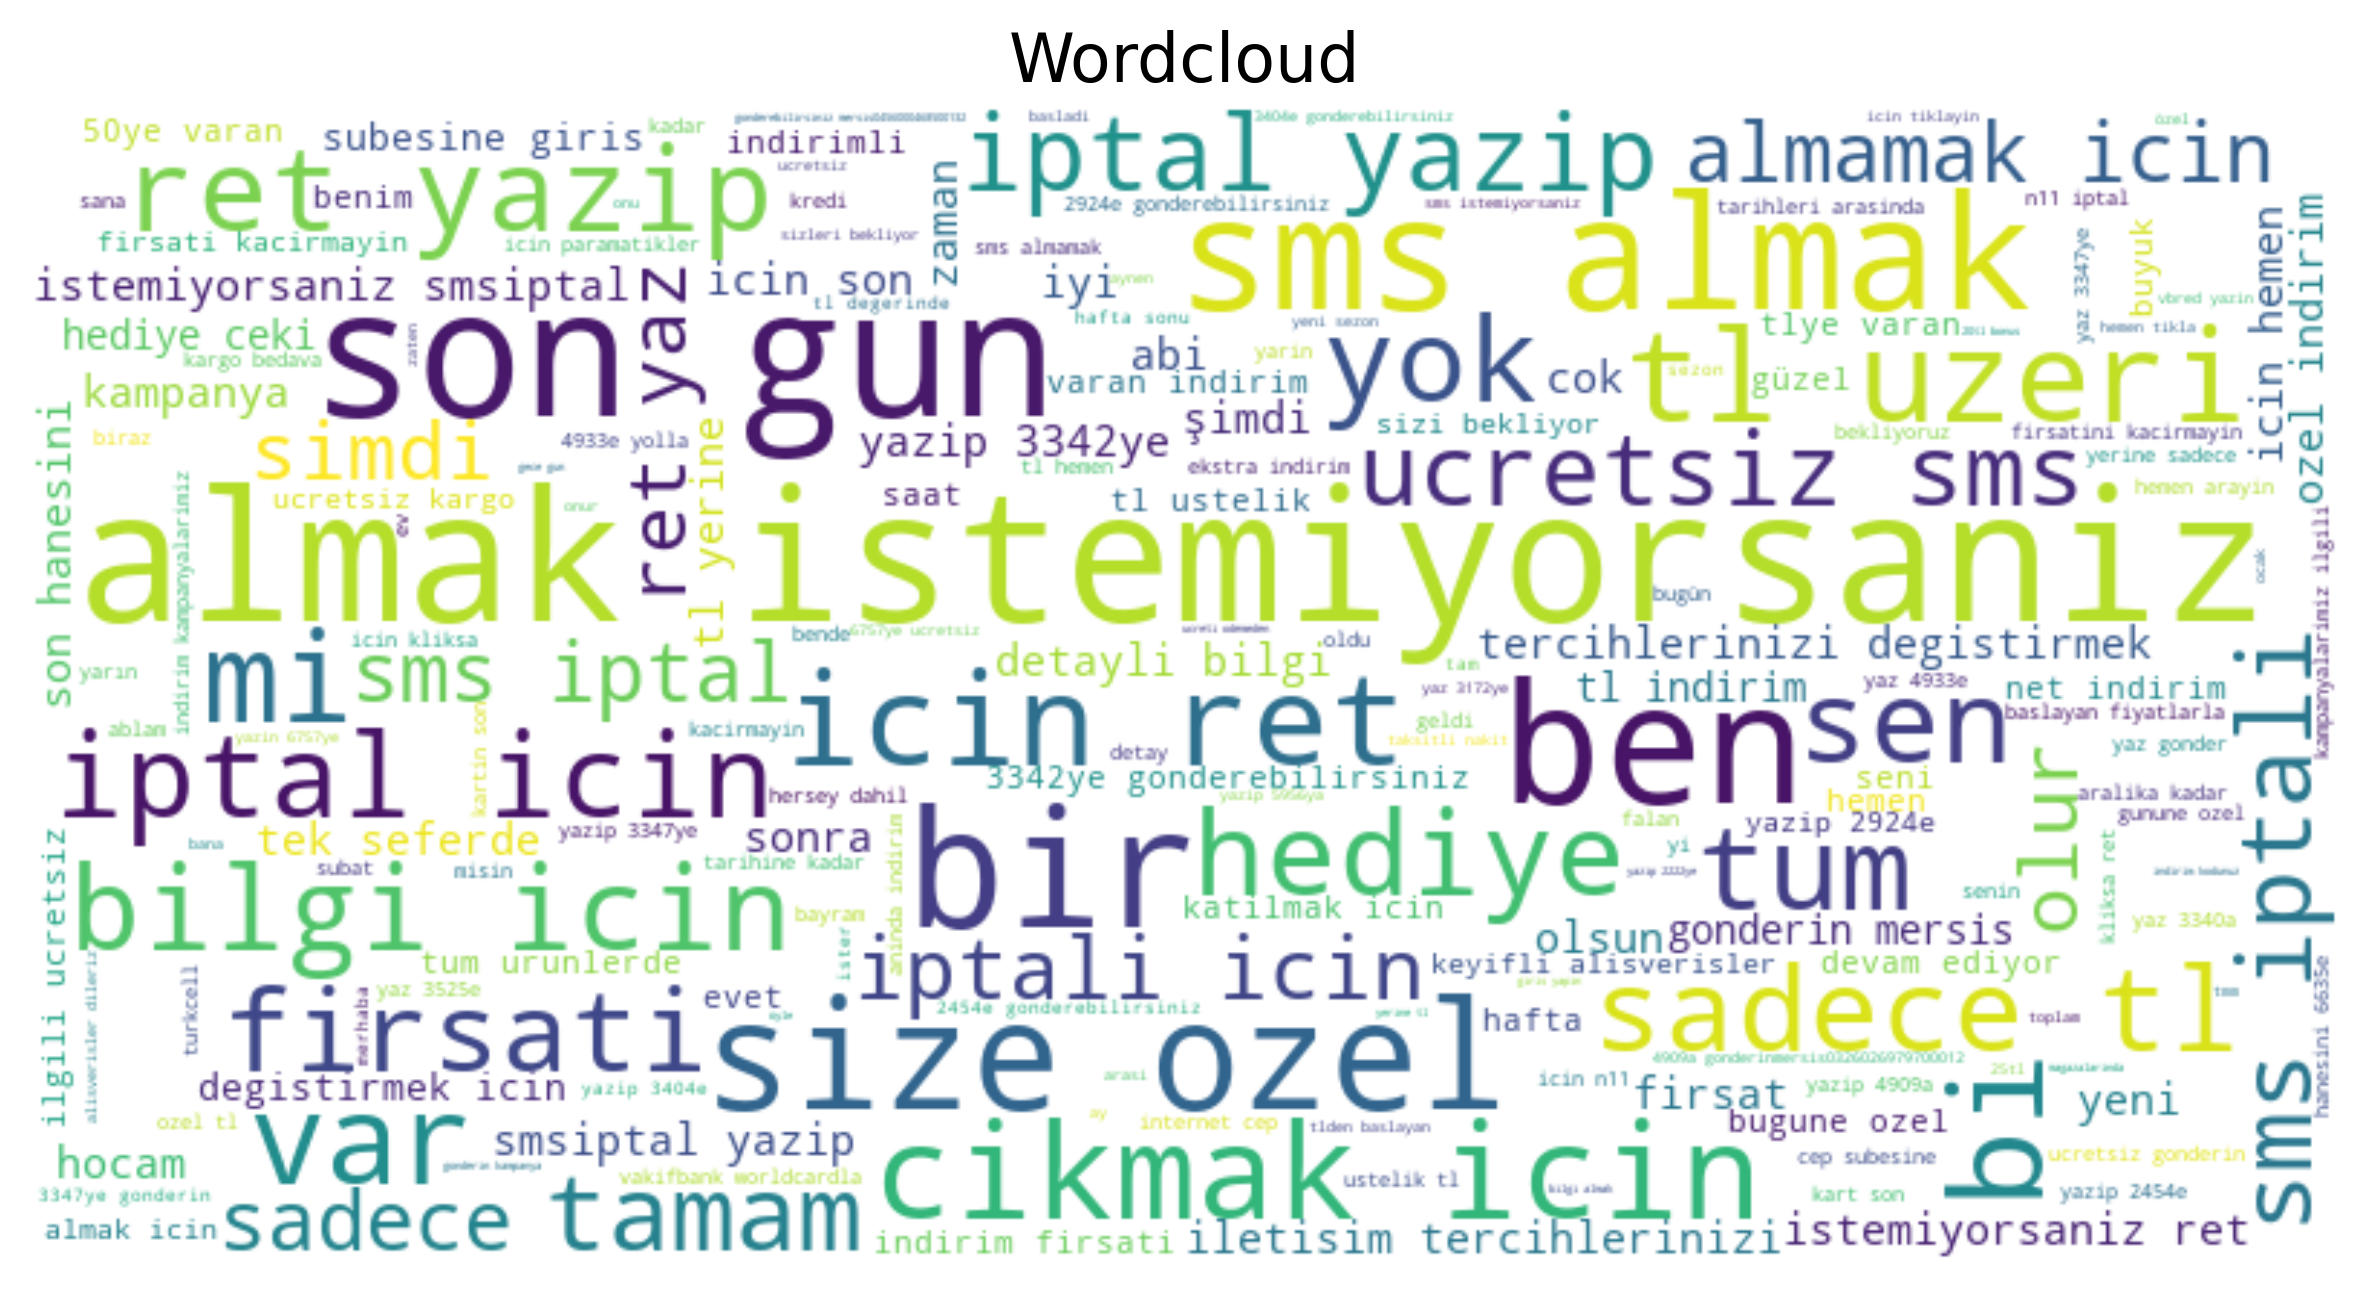
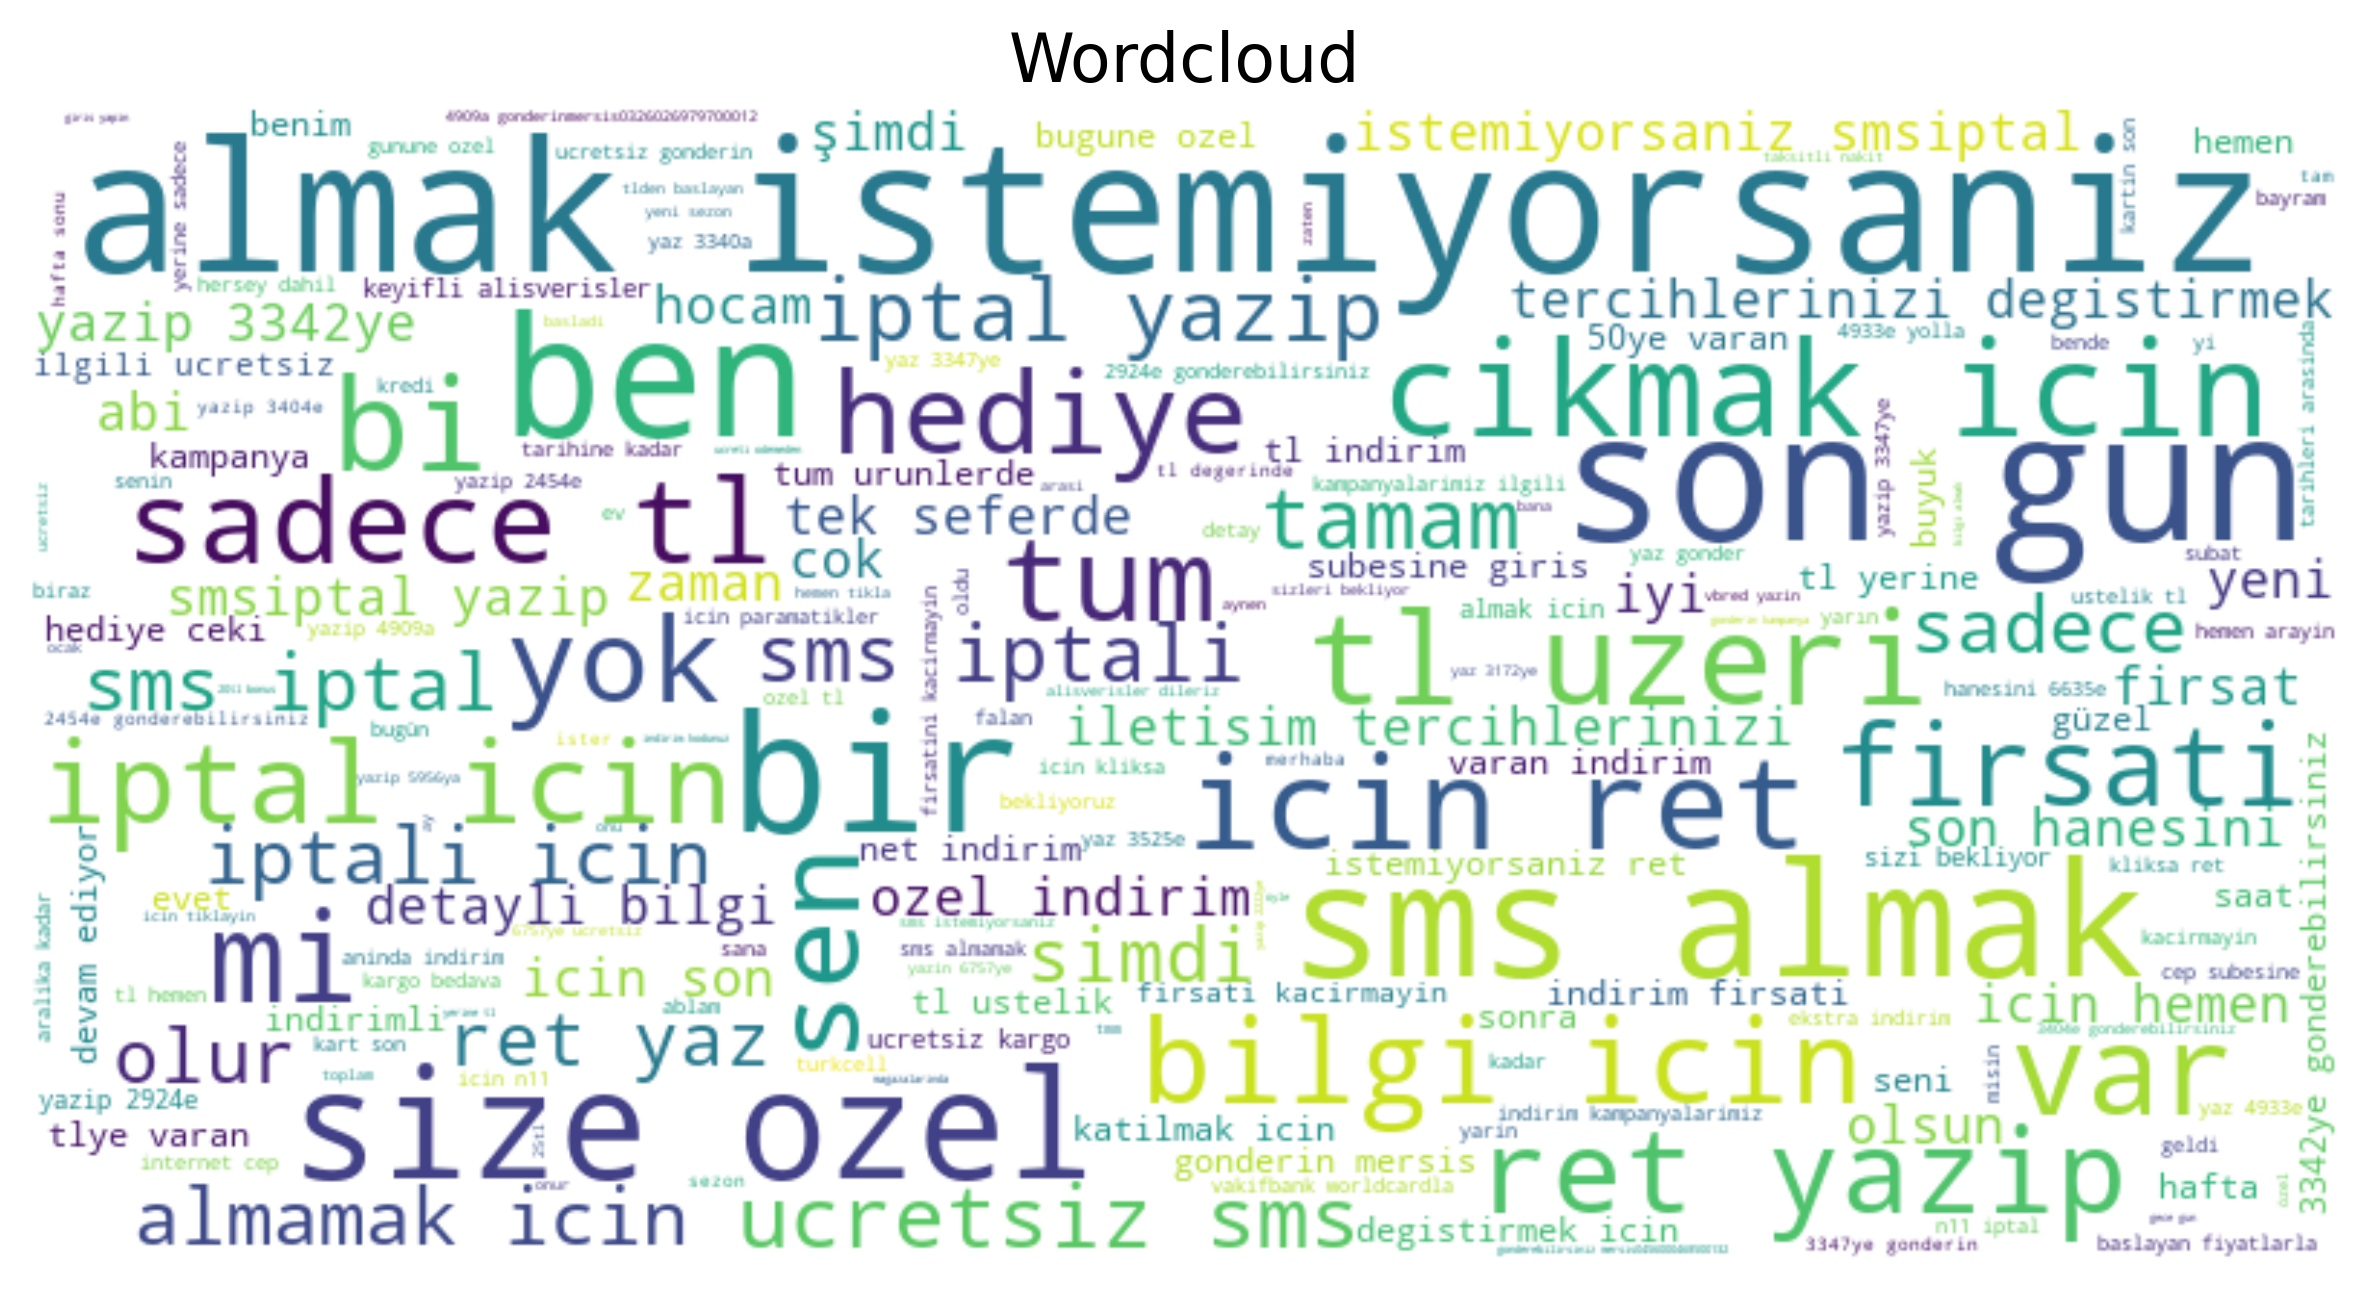
ml_based.py is updated, spam logic fixed.

diff --git a/ml_based.py b/ml_based.py
@@ -11,8 +11,13 @@ from sklearn.feature_extraction.text import TfidfVectorizer
 from sklearn.linear_model import LogisticRegression
 from sklearn.metrics import accuracy_score, classification_report , confusion_matrix
 
+clean_text = None
+df = None
+# to get rid of the stopwords
+nltk.download('stopwords')
+stopwords = set(stopwords.words('turkish'))
 
-def about_data():
+def read_data():
     # Load the dataset
     try:
         df = pd.read_csv("TurkishSMSCollection.csv", sep=';')
@@ -23,6 +28,12 @@ def about_data():
     # Drop unnecessary columns if they exist
     if "GroupText" in df.columns:
         df = df.drop(columns="GroupText", axis=1)
+
+        return df
+
+
+def about_data():
+    df = read_data()
 
     # Check for missing values
     missing_values = df.isnull().sum()
@@ -66,12 +77,13 @@ def about_data():
 
     return df
 
-def clean_data(df, stopwords):
+def clean_data():
+    df = read_data()
+    # Step2: clean text
+
     df["Message"] = df["Message"].str.lower()
     df["Message"] = df["Message"].str.translate(str.maketrans('', '', string.punctuation))
     df["Message"] = df["Message"].str.replace('\s+', ' ', regex=True)
-
-
 
     df["Message"] = df["Message"].apply(lambda x: ' '.join([
         word for word in x.split()
@@ -79,8 +91,9 @@ def clean_data(df, stopwords):
     ]))
     return df
 
-def draw_wordcloud(df):
+def draw_wordcloud():
     # we can draw the word cloud, need to join messages to give as an input to wordcloud
+    df = clean_data()
     cleaned_text = ' '.join(df["Message"])
     wordcloud = WordCloud(width=800, height=400, background_color='white').generate(cleaned_text)
 
@@ -99,6 +112,28 @@ def draw_wordcloud(df):
 
     print(f"Wordcloud plot saved to: {plot_path}")
 
+def create_model():
+    # need to clean data first
+    df = clean_data()
+    global model, tfidf  # Declare global variables
+
+    # split data
+    X = df["Message"]
+    y = df["Group"]
+
+    X_train, X_test, y_train, y_test = train_test_split(X, y, test_size=0.2, random_state=42)
+
+    # feature extraction
+    tfidf = TfidfVectorizer(max_features=5000)
+    X_train_tfidf = tfidf.fit_transform(X_train)
+    X_test_tfidf = tfidf.transform(X_test)
+
+    # MODEL1: logistic regression training
+    model = LogisticRegression()
+    model.fit(X_train_tfidf, y_train)
+
+    # lets write the model evaluation into a file. and get rid of the model evaluation function afterwaards
+
 def model_evaluation(X_test_tfidf, y_test):
     y_pred = model.predict(X_test_tfidf)
     acc = accuracy_score(y_test, y_pred)
@@ -113,51 +148,39 @@ def model_evaluation(X_test_tfidf, y_test):
     print(class_report)
 
 def is_phishing_sms(sms_text):
+    create_model()
     # Ensure sms_text is a list, even if a single string is provided
     if isinstance(sms_text, str):
         sms_text = [sms_text]  # Convert single string to a list
 
-    texts_tfidf = tfidf.transform(sms_text)
-    predictions = model.predict(texts_tfidf)
+    texts_tfidf = tfidf.transform(sms_text)  # Using the global tfidf
+    predictions = model.predict(texts_tfidf)  # Using the global model
 
+    results = []
     for message, prediction in zip(sms_text, predictions):
         if prediction == 1:
-            result = print(f"'{message}' : Spam")
+            result = True
         else:
-            result= print(f"'{message}' : Normal")
+            result = False
     return result
 
-if __name__ == '__main__':
     # Step1: analyze the dataset
-    df = about_data()
 
     # Step2: clean text
-    # to get rid of the stopwords
-    nltk.download('stopwords')
-    stopwords = set(stopwords.words('turkish'))
 
-    df = clean_data(df, stopwords)
 
     # Step3: draw word cloud
-    draw_wordcloud(df)
+
 
     # Step4: split data
-    X = df["Message"]
-    y = df["Group"]
-
-    X_train, X_test, y_train, y_test = train_test_split(X, y, test_size=0.2, random_state=42)
 
     # Step5: feature extraction, tf-idf
-    tfidf = TfidfVectorizer(max_features=5000)
-    X_train_tfidf = tfidf.fit_transform(X_train)
-    X_test_tfidf = tfidf.transform(X_test)
+
 
     # Step6: model training and evaluation
-    # MODEL1: logistic regression training
-    model = LogisticRegression()
-    model.fit(X_train_tfidf, y_train)
+
     # model evaluation
-    model_evaluation(X_test_tfidf, y_test)
+
 
     # take sms input and classify it as spam or not using the model
     # MODEL2:

diff --git a/app.py b/app.py
@@ -18,14 +18,20 @@ def classify_sms():
     if not sms_text:
         return jsonify({'error': 'SMS text is required'}), 400
 
-        # Example logic for spam detection
-    is_spam_rule_based = rule_based.is_phishing_sms(sms_text)
-    if not is_spam_rule_based:
-        is_spam_ML = ml_based.is_phishing_sms(sms_text)
+    print(sms_text)
+    # rule based detection
+    is_spam = rule_based.is_phishing_sms(sms_text)
+    print("rule: ", is_spam)
+    if is_spam == False:
+        is_spam = ml_based.is_phishing_sms(sms_text)
+        print("ml: ", is_spam)
 
-    is_spam = (is_spam_rule_based or is_spam_ML)
+    print("is_spam", is_spam)
     result = {'is_spam' : is_spam}
 
+    # TO DO: Show an informative result evaluation.
+    # Why is it evaluated as spam, because of the rule_based? Which rule?
+    # Because of ML classification? Which model, present the related model evaluation results.
     # Send back a JSON response
     return render_template("index.html", result=result)
 
